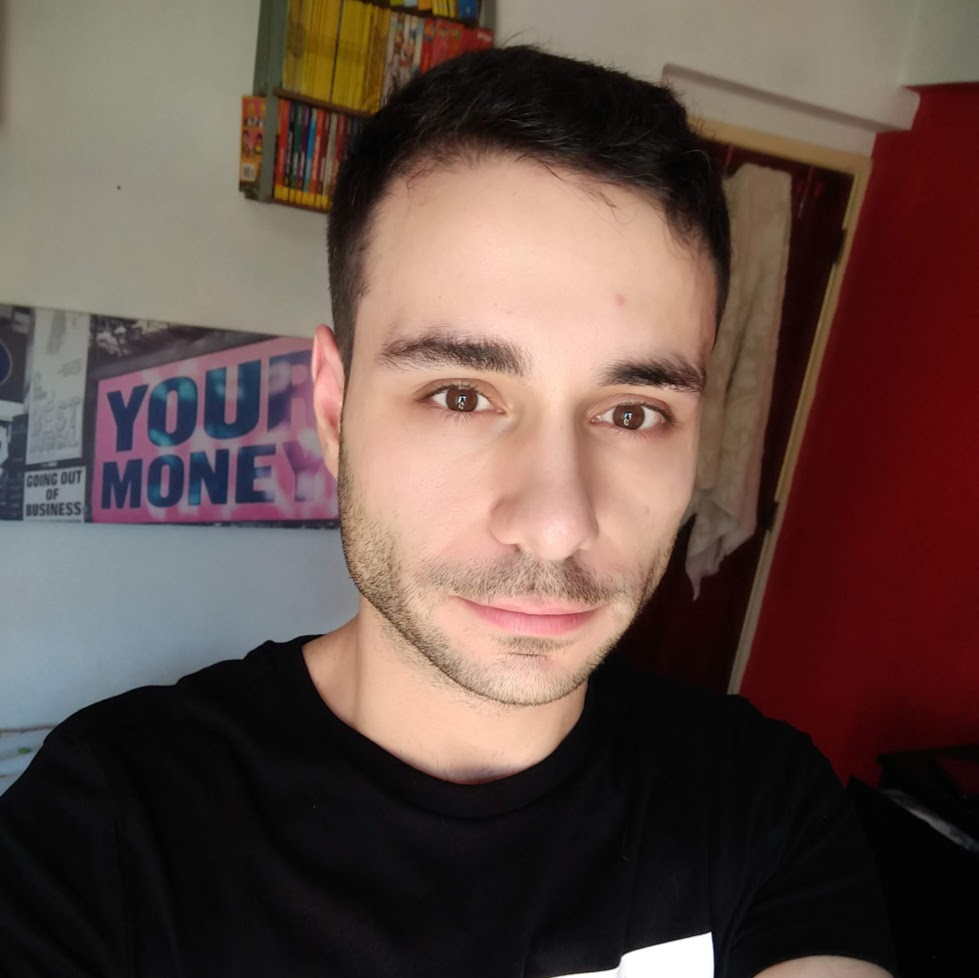
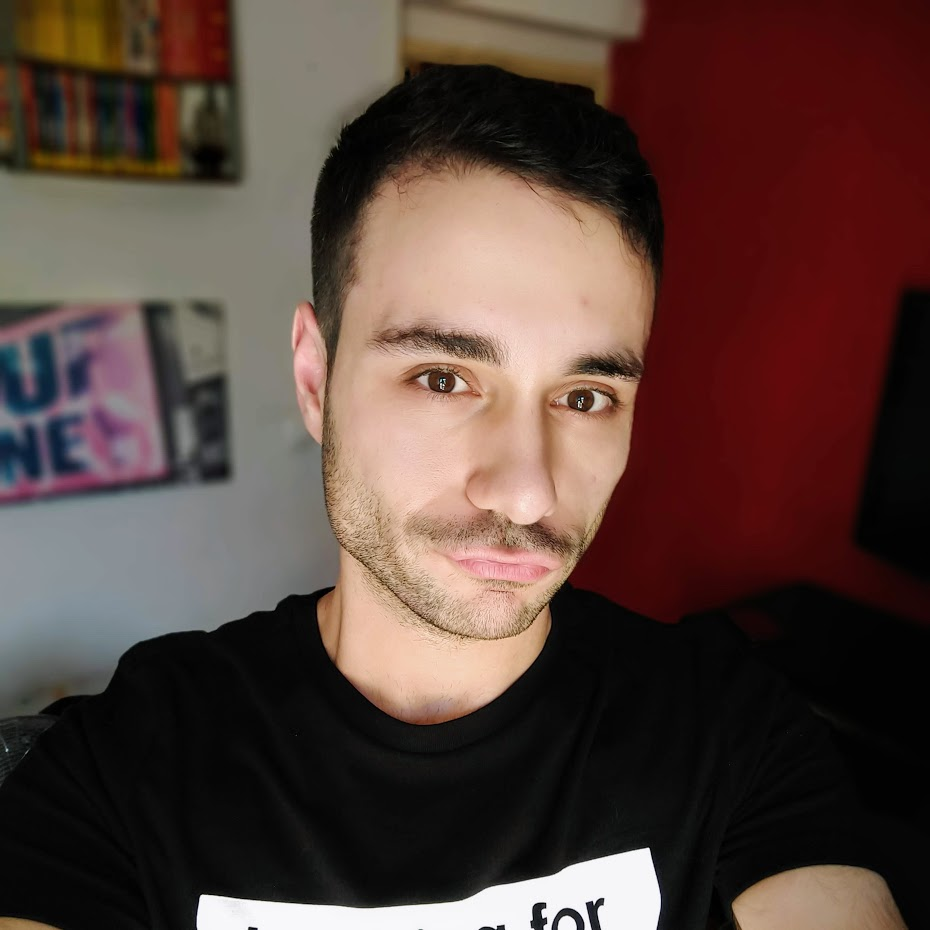
new profile pic

diff --git a/index.html b/index.html
@@ -63,7 +63,7 @@
         <div class="title">About</div>
 
         <div class="aboutleft">
-            <img class="avatar" src="img/avatar.jpg">
+            <img class="avatar" src="img/avatar2.jpg">
         </div>
 
         <div class="aboutright">
